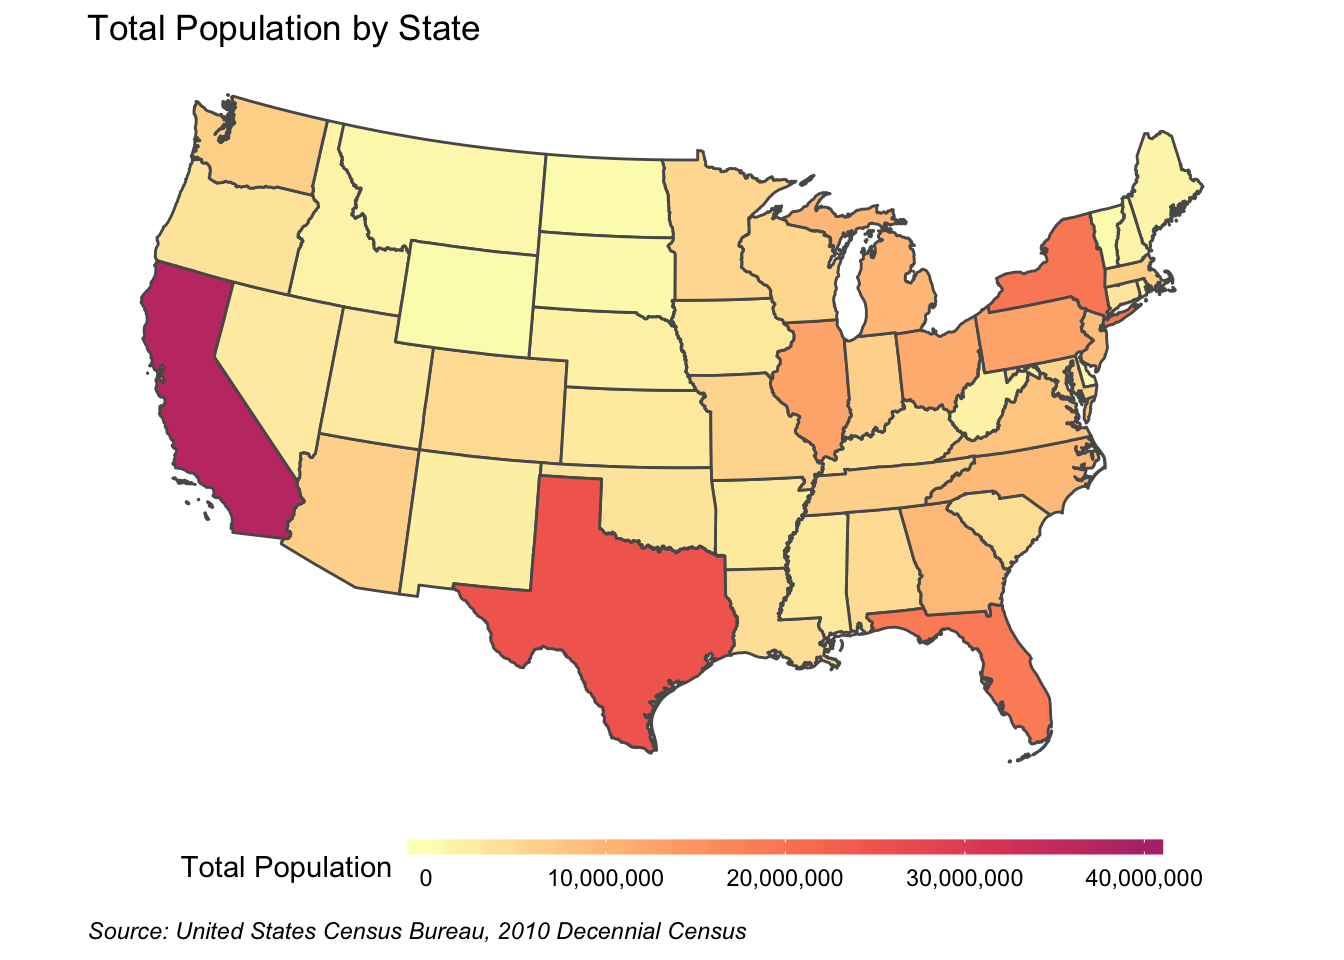
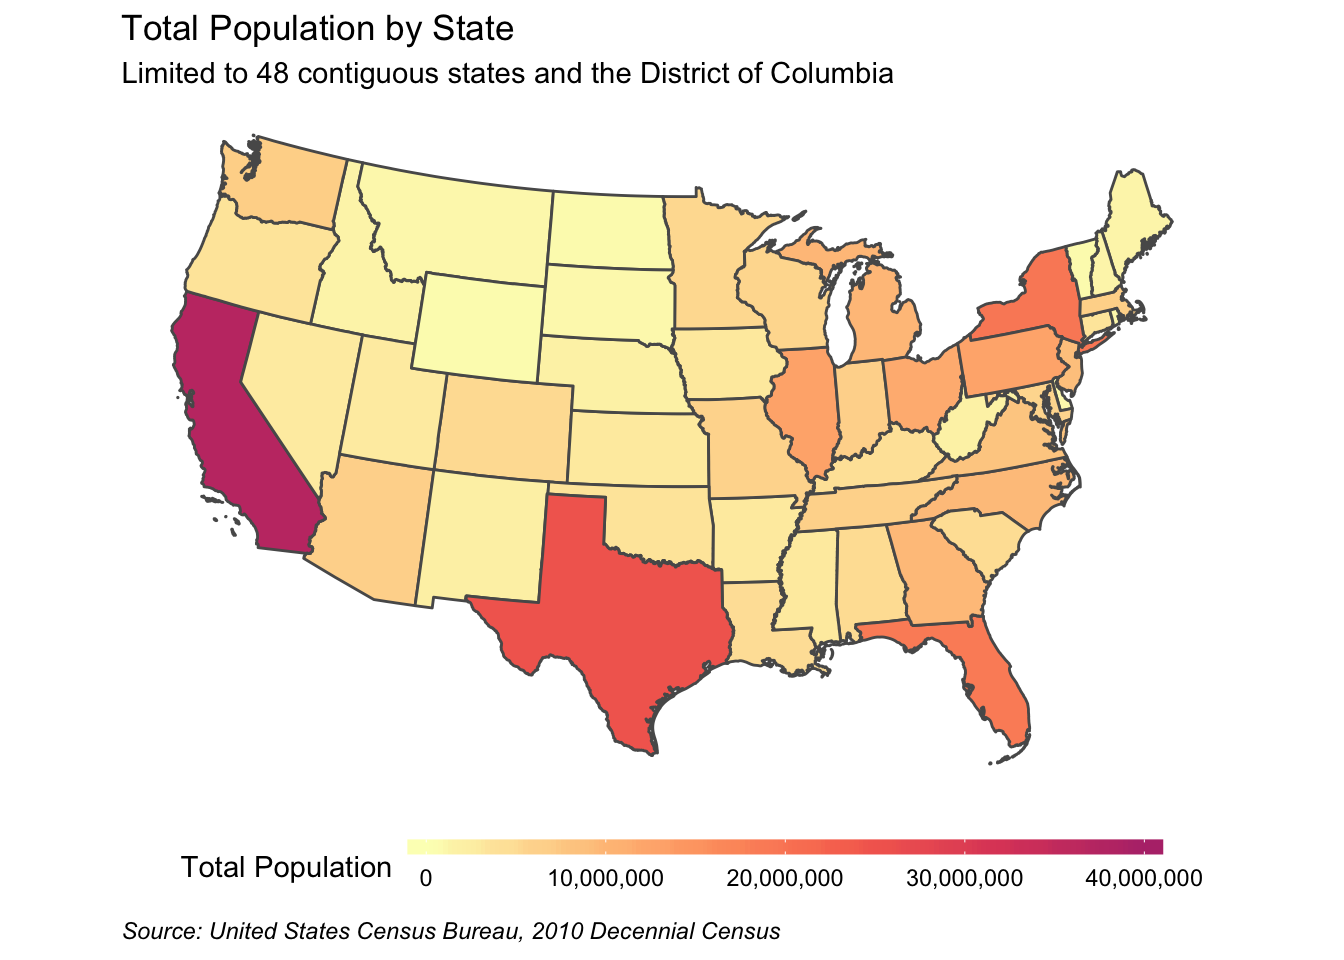
Add captions to clarify total population chart/map

Changed region(s): [[0.0625, 0.0, 0.9062, 0.8125], [0.0625, 0.9375, 0.5625, 1.0], [0.4375, 0.7188, 0.5, 0.7812]]

diff --git a/graphing/graphing_state_population.html b/graphing/graphing_state_population.html
@@ -393,6 +393,7 @@ glimpse(df)
             color = &#39;black&#39;) +
   coord_flip(ylim = c(0, 40000000)) +
   labs(title = &#39;States by Total Population&#39;,
+       subtitle = &#39;Includes the District of Columbia and Puerto Rico&#39;,
        caption = &#39;Source: United States Census Bureau, 2010 Decennial Census&#39;,
        x = &#39;State&#39;,
        y = &#39;Total Population&#39;) +
@@ -490,6 +491,7 @@ contiguous %&gt;%
   geom_sf() +
   coord_sf(crs = 5070, datum = NA) +
   labs(title = &#39;Total Population by State&#39;,
+       subtitle = &#39;Limited to 48 contiguous states and the District of Columbia&#39;,
        caption = &#39;Source: United States Census Bureau, 2010 Decennial Census&#39;) +
   theme_classic() +
   theme(legend.position = &#39;bottom&#39;,
